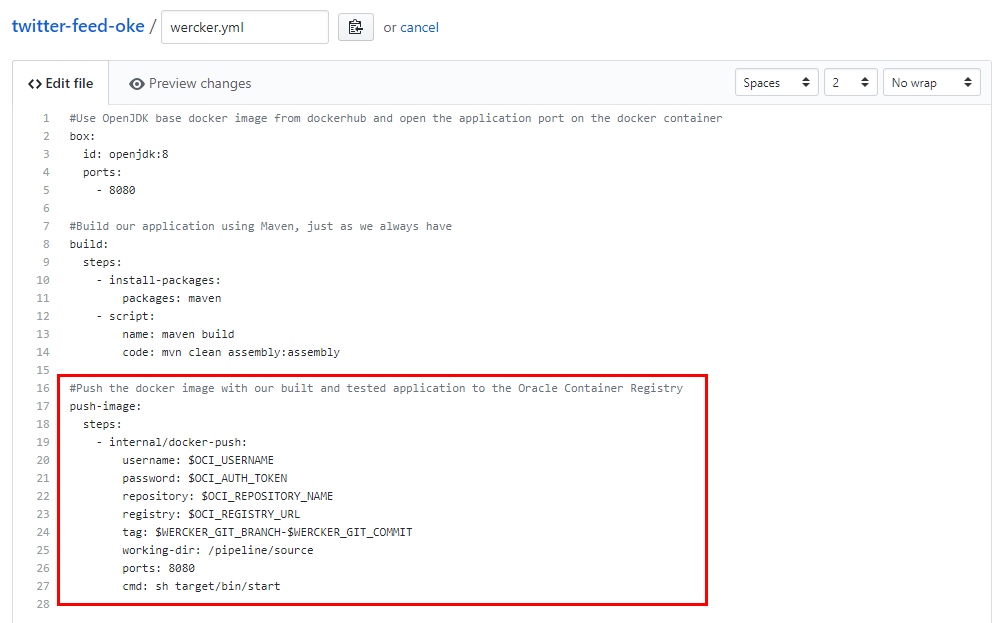
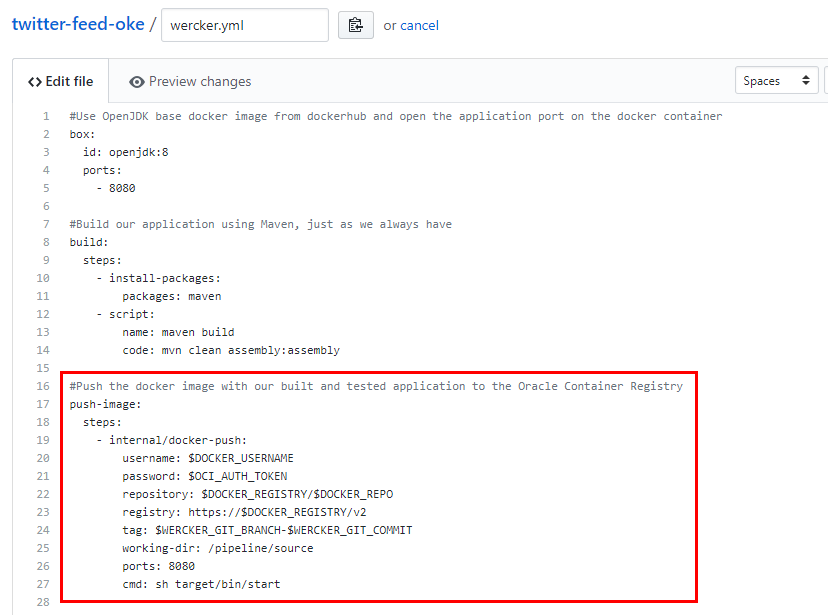
..

diff --git a/Lab200.md b/Lab200.md
@@ -90,10 +90,10 @@ wercker.yml 파일은 Wercker를 사용하기 위해 필요한 설정 파일로 
   push-image:
     steps:
       - internal/docker-push:
-          username: $OCI_USERNAME
+          username: $DOCKER_USERNAME
           password: $OCI_AUTH_TOKEN
-          repository: $OCI_REPOSITORY_NAME
-          registry: $OCI_REGISTRY_URL
+          repository: $DOCKER_REGISTRY/$DOCKER_REPO
+          registry: https://$DOCKER_REGISTRY/v2
           tag: $WERCKER_GIT_BRANCH-$WERCKER_GIT_COMMIT
           working-dir: /pipeline/source
           ports: 8080
